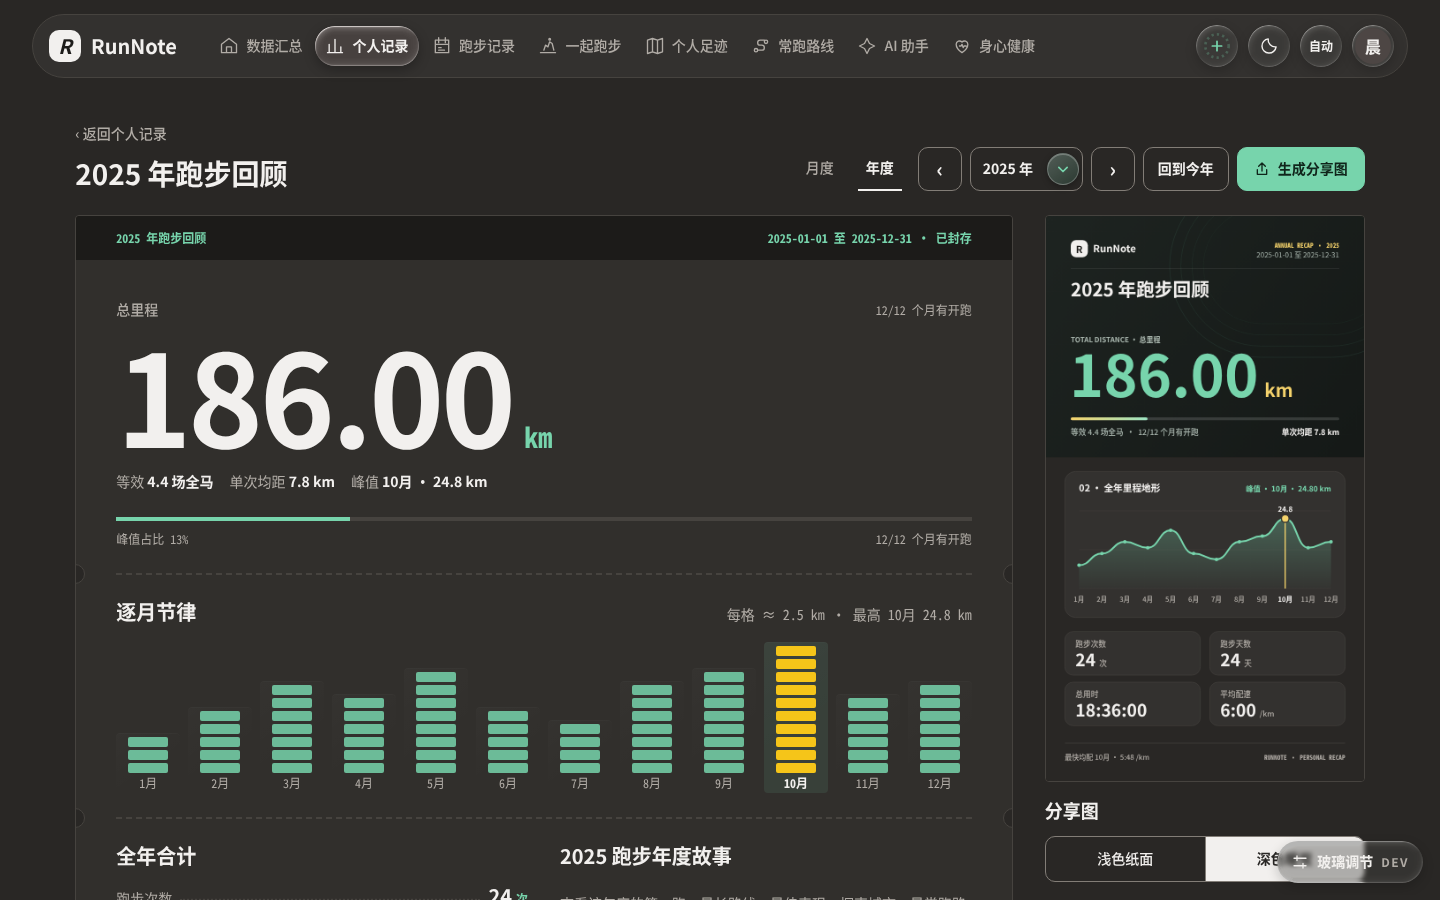
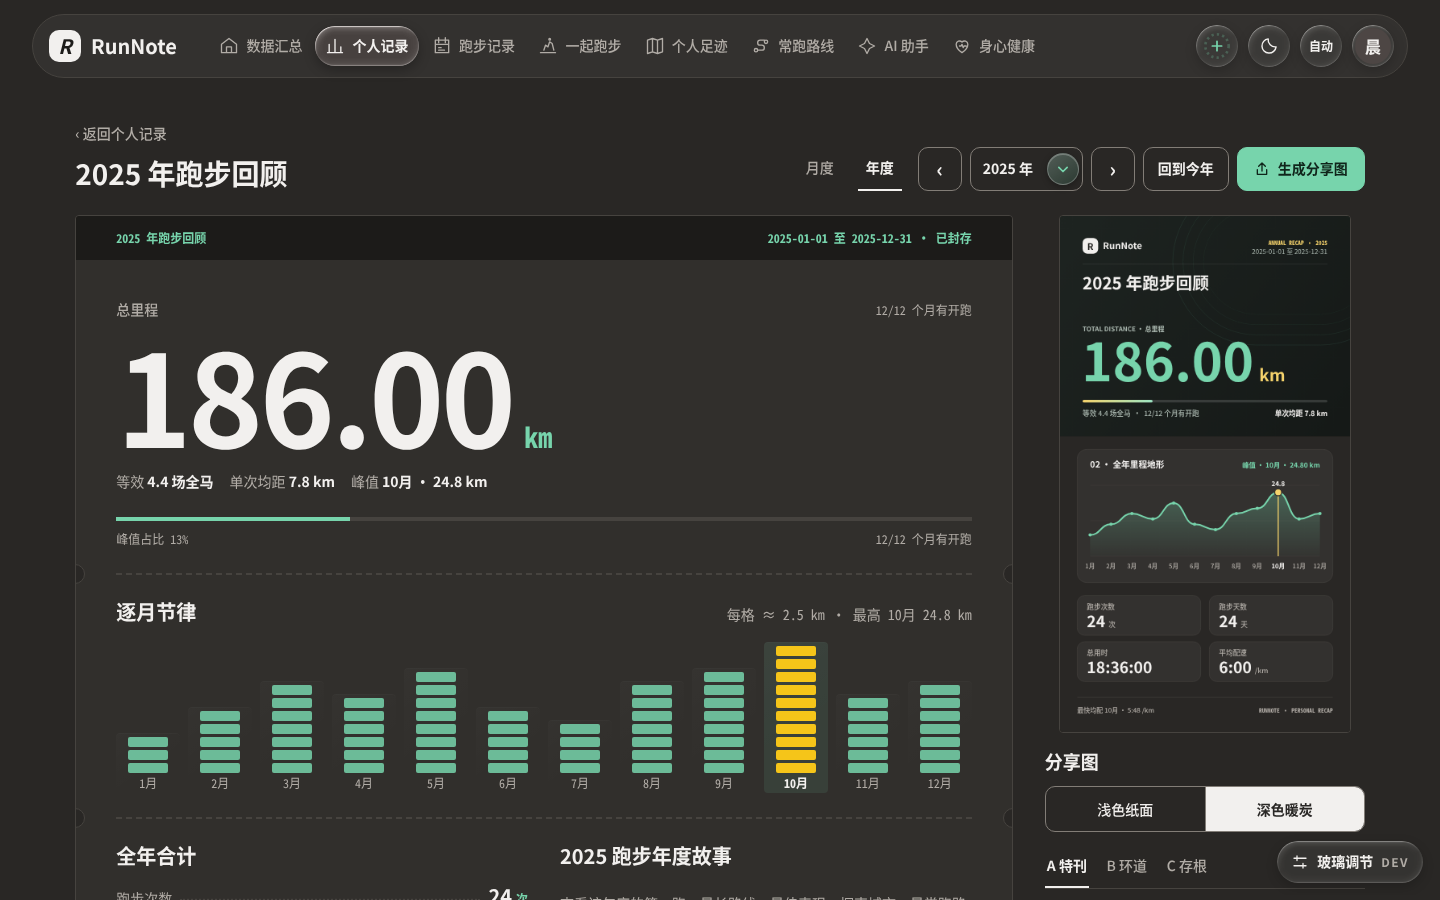
fix(web): fit sticky share desk on 1440x768 and mark partial punch-card month

diff --git a/frontend/src/routes/workspace/records/recap/+page.svelte b/frontend/src/routes/workspace/records/recap/+page.svelte
@@ -94,24 +94,33 @@
       : -1,
   );
 
-  // Punch-card rhythm columns (brand.md §5.3): each block ≈ peak / 10, synced with distribution & spread.
+  // Punch-card rhythm columns (brand.md §5.3, W-11): each block ≈ peak / 10, synced with distribution & spread.
   const punchColumns = $derived.by(() => {
     if (!distribution) return [];
     const max = distribution.max;
+    const cutoff = distribution.isPartial ? distribution.cutoff : null;
     return distribution.buckets.map((bucket, index) => {
       const hasDist = !bucket.future && bucket.distance !== null && bucket.distance > 0 && max > 0;
       const blocks = hasDist ? Math.max(1, Math.round((bucket.distance! / max) * PUNCH_MAX_BLOCKS)) : 1;
       const compactLabel = distribution!.period === 'year' ? String(index + 1) : bucket.shortLabel;
+      const inProgress = Boolean(
+        cutoff &&
+        !bucket.future &&
+        ((bucket.start <= cutoff && bucket.last >= cutoff) || (distribution!.period === 'year' && bucket.partial)),
+      );
       return {
         bucket,
         index,
         hasDist,
         blocks,
         compactLabel,
+        inProgress,
         valueText: bucket.future ? '未到' : `${km(bucket.distance ?? 0, 1)} km`,
       };
     });
   });
+
+  const hasInProgressPunch = $derived(punchColumns.some((col) => col.inProgress));
 
   const punchUnitText = $derived(
     distribution && distribution.max > 0 ? `每格 ≈ ${km(distribution.max / PUNCH_MAX_BLOCKS, 1)} km` : '',
@@ -457,7 +466,9 @@
                   <h2 id="recap-punch-title">{distribution.period === 'year' ? '逐月节律' : '逐周节律'}</h2>
                   <span class="section-meta mono">
                     {#if distribution.max > 0 && distribution.derived.peakLabelCompact}
-                      {punchUnitText} · 最高 {distribution.derived.peakLabelCompact} {km(distribution.max, 1)} km
+                      {punchUnitText} · 最高 {distribution.derived.peakLabelCompact}
+                      {km(distribution.max, 1)} km{#if hasInProgressPunch}
+                        · 斜线为进行中{/if}
                     {:else}
                       本期暂无有效里程
                     {/if}
@@ -476,12 +487,14 @@
                       type="button"
                       class="punch-col"
                       class:is-peak={col.bucket.peak}
+                      class:is-partial={col.inProgress}
                       class:is-empty={!col.hasDist}
                       class:is-future={col.bucket.future}
                       class:is-selected={isSelected}
                       data-date={col.bucket.start}
+                      data-partial={col.inProgress ? 'true' : undefined}
                       aria-pressed={isSelected}
-                      aria-label={`${col.bucket.rangeShort}，${col.valueText}${col.bucket.peak ? '，最高' : ''}`}
+                      aria-label={`${col.bucket.rangeShort}，${col.valueText}${col.bucket.peak ? '，最高' : ''}${col.inProgress ? '，进行中（未结束）' : ''}`}
                       onclick={() => {
                         selectedBucketIndex = col.index;
                       }}
@@ -844,6 +857,36 @@
   :global(:root[data-theme='dark']) .punch-col.is-peak .punch-blk {
     box-shadow: none;
   }
+  /* In-progress period (brand.md §3.2, W-11): hatched primary fill + 2px top cap on the uppermost block. */
+  .punch-col.is-partial:not(.is-empty) .punch-blk {
+    background: repeating-linear-gradient(
+      135deg,
+      var(--primary) 0 3px,
+      color-mix(in srgb, var(--primary) 18%, var(--paper)) 3px 6px
+    );
+    box-shadow: inset 0 0 0 1px color-mix(in srgb, var(--primary) 65%, transparent);
+    opacity: 1;
+  }
+  .punch-col.is-partial:not(.is-empty) .punch-blk:last-child {
+    border-top: 2px solid var(--primary);
+  }
+  .punch-col.is-peak.is-partial:not(.is-empty) .punch-blk {
+    background: repeating-linear-gradient(
+      135deg,
+      var(--receipt-mark) 0 3px,
+      color-mix(in srgb, var(--receipt-mark) 22%, var(--paper)) 3px 6px
+    );
+    box-shadow: inset 0 0 0 1px color-mix(in srgb, var(--foreground) 35%, transparent);
+  }
+  .punch-col.is-peak.is-partial:not(.is-empty) .punch-blk:last-child {
+    border-top: 2px solid var(--foreground);
+  }
+  :global(:root[data-theme='dark']) .punch-col.is-peak.is-partial:not(.is-empty) .punch-blk {
+    box-shadow: inset 0 0 0 1px color-mix(in srgb, var(--receipt-mark) 70%, transparent);
+  }
+  :global(:root[data-theme='dark']) .punch-col.is-peak.is-partial:not(.is-empty) .punch-blk:last-child {
+    border-top-color: var(--receipt-mark);
+  }
   .punch-col.is-empty .punch-blk {
     background: transparent;
     box-shadow: inset 0 0 0 1.5px var(--border);
@@ -950,6 +993,12 @@
     .report-layout.has-share-desk {
       grid-template-columns: minmax(0, 1fr);
     }
+    .report-desk-col {
+      position: static;
+    }
+  }
+  /* Release sticky on very short desktop viewports so share controls scroll naturally into reach. */
+  @media (min-width: 1080px) and (max-height: 640px) {
     .report-desk-col {
       position: static;
     }

diff --git a/frontend/tests/ui/recap.spec.ts b/frontend/tests/ui/recap.spec.ts
@@ -679,3 +679,65 @@ test('editorial receipt structure, punch-card sync, flat content buttons, and mo
   await expect(dialog).toHaveCount(0);
   await expect(shareBtn).toBeFocused();
 });
+
+for (const vp of [
+  { name: '1440x768', width: 1440, height: 768 },
+  { name: '1440x900', width: 1440, height: 900 },
+]) {
+  test(`sticky share desk controls remain visible and clickable while mid-scrolled at ${vp.name}`, async ({ page }) => {
+    await loginRunner(page);
+    await page.setViewportSize({ width: vp.width, height: vp.height });
+    await page.goto(recap + '?period=year&year=2025');
+
+    const dock = page.getByTestId('recap-poster-dock');
+    await expect(dock.getByRole('img')).toBeVisible();
+    const styleC = dock.getByRole('button', { name: 'C 存根' });
+    const launchBtn = dock.getByRole('button', { name: '打开高清预览与保存' });
+
+    for (const scrollY of [400, 800]) {
+      await page.evaluate((y) => window.scrollTo(0, y), scrollY);
+      const boxes = await Promise.all([styleC.boundingBox(), launchBtn.boundingBox()]);
+      for (const box of boxes) {
+        expect(box, `control visible at scrollY=${scrollY}`).not.toBeNull();
+        expect(box!.y).toBeGreaterThanOrEqual(0);
+        expect(box!.y + box!.height).toBeLessThanOrEqual(vp.height);
+      }
+    }
+
+    await styleC.click();
+    await expect(styleC).toHaveAttribute('aria-pressed', 'true');
+    await launchBtn.click();
+    const dialog = page.getByRole('dialog', { name: '分享图预览' });
+    await expect(dialog).toBeVisible();
+    await page.keyboard.press('Escape');
+    await expect(dialog).toHaveCount(0);
+  });
+}
+
+test('in-progress partial month in punch-card rhythm uses hatched mark and accessible in-progress name', async ({
+  page,
+}) => {
+  await loginRunner(page);
+  await page.goto(recap);
+  await expect(page.getByTestId('recap-partial-pill')).toContainText('进行中');
+
+  const punch = page.getByTestId('recap-punch-rhythm');
+  await expect(punch).toBeVisible();
+  await expect(punch).toContainText('斜线为进行中');
+
+  const partialCols = punch.locator('[data-partial="true"]');
+  await expect(partialCols).toHaveCount(1);
+  const partialBtn = partialCols.first();
+  await expect(partialBtn).toHaveAccessibleName(/进行中（未结束）/);
+
+  const bgImage = await partialBtn
+    .locator('.punch-blk')
+    .first()
+    .evaluate((el) => getComputedStyle(el).backgroundImage);
+  expect(bgImage).toContain('repeating-linear-gradient');
+
+  // Completed earlier month must not carry partial state or in-progress accessible name.
+  const janBtn = punch.getByRole('button', { name: /^1月/ });
+  await expect(janBtn).not.toHaveAttribute('data-partial', 'true');
+  await expect(janBtn).not.toHaveAccessibleName(/进行中/);
+});

diff --git a/frontend/src/lib/components/RecapShare.svelte b/frontend/src/lib/components/RecapShare.svelte
@@ -577,6 +577,22 @@
       transform: none;
     }
   }
+  @media (min-width: 1080px) {
+    /* Fit the sticky share desk (poster + controls) within shorter desktop viewports such as 1440×768
+       while preserving the tall 9:16 presence at 1440×900+. */
+    .desk-frame {
+      width: fit-content;
+      max-width: 100%;
+      justify-self: center;
+    }
+    .desk-frame img,
+    .desk-placeholder {
+      width: auto;
+      height: clamp(14rem, calc(100dvh - 24rem), 33rem);
+      max-width: 100%;
+      aspect-ratio: 9 / 16;
+    }
+  }
   @media (min-width: 640px) and (max-width: 1079px) {
     .share-desk {
       padding-top: var(--space-6);

diff --git a/docs/105-editorial-receipt-report.md b/docs/105-editorial-receipt-report.md
@@ -7,10 +7,10 @@
 - **页面级 opt-in（`.editorial-page.recap-page`）**：保留既有全局悬浮顶部玻璃导航（≥800px）与手机底部 Tab 栏（<800px）；内容区按钮打印为 10px 平面按钮（无玻璃无阴影），原生分享图弹窗显式标注 `data-glass-overlay` 以保留弹层 Liquid Glass 边界与 `Escape` 焦点回退。
 - **紧凑页头与周期筛选**：左侧保留「‹ 返回个人记录」（`/workspace/records`）与 `28px`（`--text-stat`）`h1` 标题；右侧以 `.underline-tabs`（2px 墨色下划线）替换原胶囊分段切换「月度 / 年度」，配合 10px 平面步进按钮（`‹` / `›`）、年份 `<select>` 或月度 `DatePicker`（统一 `--control-border` 描边、保留读屏 `label`）、「回到今年 / 回到本月」及「生成分享图」主按钮。
 - **双栏布局（≥1080px 左票据分析 + 右常驻分享台）**：
-  - **主票据纸（`.receipt-sheet.report-sheet`，`data-testid="recap-overview"`）**：取代原深森绿渐变 `.monolith` 卡片；顶部为唯一票头（`.receipt-header`，浅色 `--receipt` / `--receipt-ink`，深色 `--receipt-ink` / `--primary`），展示周期名称、日期范围及「已封存」或「进行中 · 截至 MM.DD」；主体依次呈现超大等宽主里程（桌面 `--text-period-hero`、手机 `--text-recap-hero`）与等宽主色单位 `km`、等效全马/单次均距/峰值参照、4px 平面占比标尺；经打孔虚线（`.receipt-perforation`）进入**逐月/逐周打孔节律**（`data-testid="recap-punch-rhythm"`，每格 ≈ 峰值 / 10，峰值柱以 `--receipt-mark` 与加粗标签双重标记，点击可与下方里程地形及出勤节律双向联动）；再经打孔虚线进入底部双栏：**全年/本月合计**（`.leader-row` 点线引导，缺失值以 `—` + `sr-only` 呈现，覆盖注记改用 `.status-strip`）与年度模式下的**年度故事入口**（`data-testid="recap-story-entry"`，链接至 `/workspace/records/story?year=YYYY`）。
+  - **主票据纸（`.receipt-sheet.report-sheet`，`data-testid="recap-overview"`）**：取代原深森绿渐变 `.monolith` 卡片；顶部为唯一票头（`.receipt-header`，浅色 `--receipt` / `--receipt-ink`，深色 `--receipt-ink` / `--primary`），展示周期名称、日期范围及「已封存」或「进行中 · 截至 MM.DD」；主体依次呈现超大等宽主里程（桌面 `--text-period-hero`、手机 `--text-recap-hero`）与等宽主色单位 `km`、等效全马/单次均距/峰值参照、4px 平面占比标尺；经打孔虚线（`.receipt-perforation`）进入**逐月/逐周打孔节律**（`data-testid="recap-punch-rhythm"`，每格 ≈ 峰值 / 10，峰值柱以 `--receipt-mark` 与加粗标签双重标记，进行中未结束周期按 W-11 采用 `--primary` 斜线填充 + 顶部 2px 封边并标注 `data-partial="true"` 与「进行中（未结束）」读屏名称，点击可与下方里程地形及出勤节律双向联动）；再经打孔虚线进入底部双栏：**全年/本月合计**（`.leader-row` 点线引导，缺失值以 `—` + `sr-only` 呈现，覆盖注记改用 `.status-strip`）与年度模式下的**年度故事入口**（`data-testid="recap-story-entry"`，链接至 `/workspace/records/story?year=YYYY`）。
   - **02 · 里程地形与累计轨迹（`RecapDistribution`）**：去除 24px 白色卡片与胶囊巡检条，改为 `2px` 墨色节线（`.section-rule`）开头与发丝线平底巡检条；保留双轴 SVG 曲线、峰值标记、鼠标/键盘（`ArrowLeft`/`ArrowRight`/`Home`/`End`/`Enter`/`Space`）联动及 `<details>`「查看完整数据表」。
   - **03 · 出勤节律与均配速走势（`RecapRhythmSpread`）**：去除双卡片外框、胶囊徽章与环形进度（遵循 `brand.md §1.3`），改为 `1px` 发丝线分组（容器查询 ≥48rem 并排、窄屏纵排）；03A 出勤节律矩阵改用平面纸面账格 + 3px 底部进度条，保留全部按钮与选中联动；03B 均配速走势保留反纵轴折线、周期均线与最快期高亮。
-  - **右侧常驻分享台（`RecapShare`，`data-testid="recap-poster-dock"`）**：桌面端吸顶展示 9:16 实时缩略预览（去除倾斜旋转与渐变底）、浅色纸面/深色暖炭双段切换、`.underline-tabs` 版式快切（A 特刊 / B 环道 / C 存根）、「打开高清预览与保存」及隐私说明；平板（640–1079px）自动折为 2px 节线下的横向两栏，手机（<640px）单列堆叠。保留原有 1080×1920 原生 `<dialog data-glass-overlay>` 导出 PNG 与系统分享能力。
+  - **右侧常驻分享台（`RecapShare`，`data-testid="recap-poster-dock"`）**：桌面端吸顶展示 9:16 实时缩略预览（去除倾斜旋转与渐变底；`>= 1080px` 下缩略图按 `clamp(14rem, calc(100dvh - 24rem), 33rem)` 适配可用视口高度，且 `max-height: 640px` 极矮桌面自动取消 sticky，确保 `1440×768` 与 `1440×900` 滚动中段版式切换与高清保存按钮均保持在视口内可点击）、浅色纸面/深色暖炭双段切换、`.underline-tabs` 版式快切（A 特刊 / B 环道 / C 存根）、「打开高清预览与保存」及隐私说明；平板（640–1079px）自动折为 2px 节线下的横向两栏，手机（<640px）单列堆叠。保留原有 1080×1920 原生 `<dialog data-glass-overlay>` 导出 PNG 与系统分享能力。
 - **与 `web.html?page=report` 原型的差异与诚实省略**：
   - **未展示去年同期增量（原型 `比 2024 年多 212.3 km`）**：`/api/v1/statistics/report` 仅返回所选单周期的聚合结果，不提供去年同期差值；遵守「不改后端/API、不虚构指标」原则予以省略。
   - **未在回顾页内嵌年度叙事标题、最长连续周、探索城市、01–05 章节与分享图城市/路线脱敏开关**：上述数据来自 `/api/v1/statistics/annual-story`，已由独立伴生路由 `/workspace/records/story?year=YYYY` 承载（且仅存在年度维度，不适用于月度回顾）。本页在年度模式下于票据纸右下保留「查看年度故事」直达入口，不额外发起跨页面请求，也不重复实现年度故事页面；`/workspace/records/story` 与 `/records`（含 `PeriodReportCard`）保持原样，留待各自页面迁移。
@@ -32,7 +32,7 @@
 
 不新增或修改任何接口、查询参数或权限校验。`/workspace/records/recap` 继续由服务端工作区会话门控保护，仅使用本人会话调用 `GET /api/v1/statistics/report` 与 `GET /api/v1/statistics/trends`，401 时清空私人状态并跳转 `/admin?reason=expired&next=...`。9:16 分享图继续严格执行白名单，仅在浏览器本机 Canvas 2D 绘制周期日期、服务端汇总数字与无坐标分桶分布，不含姓名、账号、坐标、地点、备注或身心健康数据。全部截图与测试均基于合成数据。
 
-## 验证记录（2026-11-28，本机 Linux，Node 24.18，Chrome，Playwright 1.65）
+## 验证记录（2026-11-28，评审返修第 1 轮后，本机 Linux，Node 24.18，Chrome，Playwright 1.65）
 
 | 命令（`frontend/`） | 结果 |
 | --- | --- |
@@ -40,12 +40,11 @@
 | `./node_modules/.bin/stylelint "src/**/*.{css,svelte}" "tests/fixtures/**/*.{css,svelte}"` | 通过 |
 | `./node_modules/.bin/vitest run` | 80 files / 528 tests passed |
 | `./node_modules/.bin/vite build` | 成功（仅既有大体积 chunk 提示） |
-| `playwright test --config playwright.recap.config.ts --reporter=list` | 17 passed / 0 failed（覆盖登录门控、历史导航与加载态锁定、空态/报告失败/趋势失败保留总览重试/401 跳转、地形/出勤/打孔联动、1440/768/390/320 明暗无溢出与标签防重叠、A/B/C 三款 1080×1920 PNG 本地导出与 Object URL 释放、Editorial Receipt 结构与弹窗玻璃边界） |
-| `playwright test --config playwright.ui.config.ts tests/ui/annual-story.spec.ts tests/ui/records.spec.ts --reporter=list` | 21 passed / 0 failed（验证从 `/records` 与 `/workspace/records/recap` 进入年度故事及 `/records` 零回归） |
+| `playwright test --config playwright.ui.config.ts tests/ui/recap.spec.ts tests/ui/annual-story.spec.ts tests/ui/records.spec.ts --reporter=list` | 41 passed / 0 failed（含 `recap.spec.ts` 20/20：新增 P2 `1440×768` 与 `1440×900` 滚动 400/800px 后分享台版式切换与高清保存按钮视口内可见可点击断言、P3 当前进行中周期打孔斜线填充与「进行中（未结束）」读屏名称断言，以及 `annual-story.spec.ts` 7/7、`records.spec.ts` 14/14） |
 
-### 视觉验收矩阵（合成数据，4 视口 × 浅/深色）
+### 视觉验收矩阵（合成数据，4 视口 × 浅/深色 + 矮屏滚动/进行中态）
 
-`1440×900`、`768×1024`、`390×844`、`320×640` 四档视口在浅色与深色模式下横向溢出均为 0、控制台与页面错误均为 0；逐月/逐周打孔节律、双轴地形图、出勤账格与配速曲线均无裁切或标签重叠；月度 `DatePicker` 与年份选择器对齐一致；分享弹窗保留 Liquid Glass 边界与 `Escape` 焦点回退。
+`1440×900`、`1440×768`（滚动 400px：版式标签 `y=585.2..629.2`、高清保存按钮 `y=642.2..686.2`，均完全位于 `768px` 视口内）、`768×1024`、`390×844`、`320×640` 浅色与深色模式下横向溢出均为 0、控制台与页面错误均为 0；进行中年度当前月（如 `2026-11`）以斜线填充 + 2px 顶线区分已封存月份。
 
 | 视口 / 主题 | 修改前 | 修改后 |
 | --- | --- | --- |
@@ -58,7 +57,7 @@
 | 320×640 浅色 | ![](assets/2026-11-28-editorial-receipt-report/before-report-320-light.png) | ![](assets/2026-11-28-editorial-receipt-report/after-report-320-light.png) |
 | 320×640 深色 | ![](assets/2026-11-28-editorial-receipt-report/before-report-320-dark.png) | ![](assets/2026-11-28-editorial-receipt-report/after-report-320-dark.png) |
 
-整页与交互态核对：[1440 浅色整页](assets/2026-11-28-editorial-receipt-report/after-report-1440-light-full.png)、[1440 深色整页](assets/2026-11-28-editorial-receipt-report/after-report-1440-dark-full.png)、[月度回顾](assets/2026-11-28-editorial-receipt-report/after-report-1440-light-month.png)、[分享图弹窗](assets/2026-11-28-editorial-receipt-report/after-report-1440-light-share-dialog.png)、[空周期状态](assets/2026-11-28-editorial-receipt-report/after-report-1440-light-empty.png)、[读取失败状态](assets/2026-11-28-editorial-receipt-report/after-report-1440-light-error.png)。
+整页、矮屏滚动（P2）、进行中打孔（P3）与交互态核对：[1440 浅色整页](assets/2026-11-28-editorial-receipt-report/after-report-1440-light-full.png)、[1440 深色整页](assets/2026-11-28-editorial-receipt-report/after-report-1440-dark-full.png)、[1440×768 浅色滚动中段（P2）](assets/2026-11-28-editorial-receipt-report/after-report-1440x768-light-scrolled.png)、[1440×768 深色滚动中段（P2）](assets/2026-11-28-editorial-receipt-report/after-report-1440x768-dark-scrolled.png)、[进行中周期斜线打孔浅色（P3）](assets/2026-11-28-editorial-receipt-report/after-report-1440-light-partial.png)、[进行中周期斜线打孔深色（P3）](assets/2026-11-28-editorial-receipt-report/after-report-1440-dark-partial.png)、[月度回顾](assets/2026-11-28-editorial-receipt-report/after-report-1440-light-month.png)、[分享图弹窗](assets/2026-11-28-editorial-receipt-report/after-report-1440-light-share-dialog.png)、[空周期状态](assets/2026-11-28-editorial-receipt-report/after-report-1440-light-empty.png)、[读取失败状态](assets/2026-11-28-editorial-receipt-report/after-report-1440-light-error.png)。
 
 ## 未验证项与剩余风险
 
